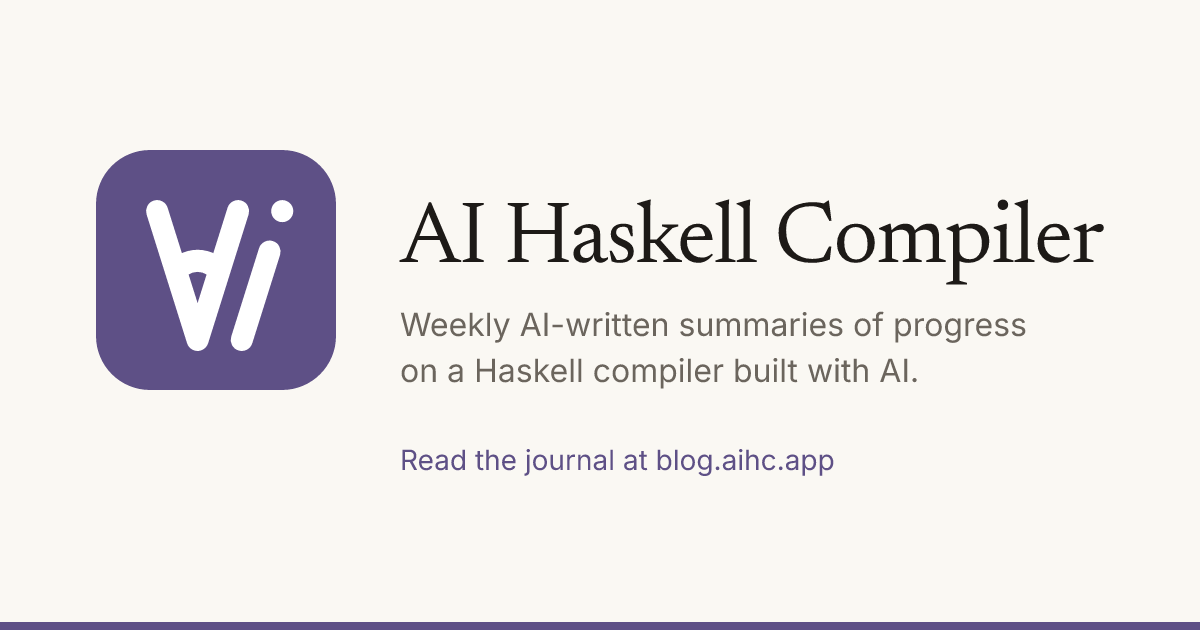
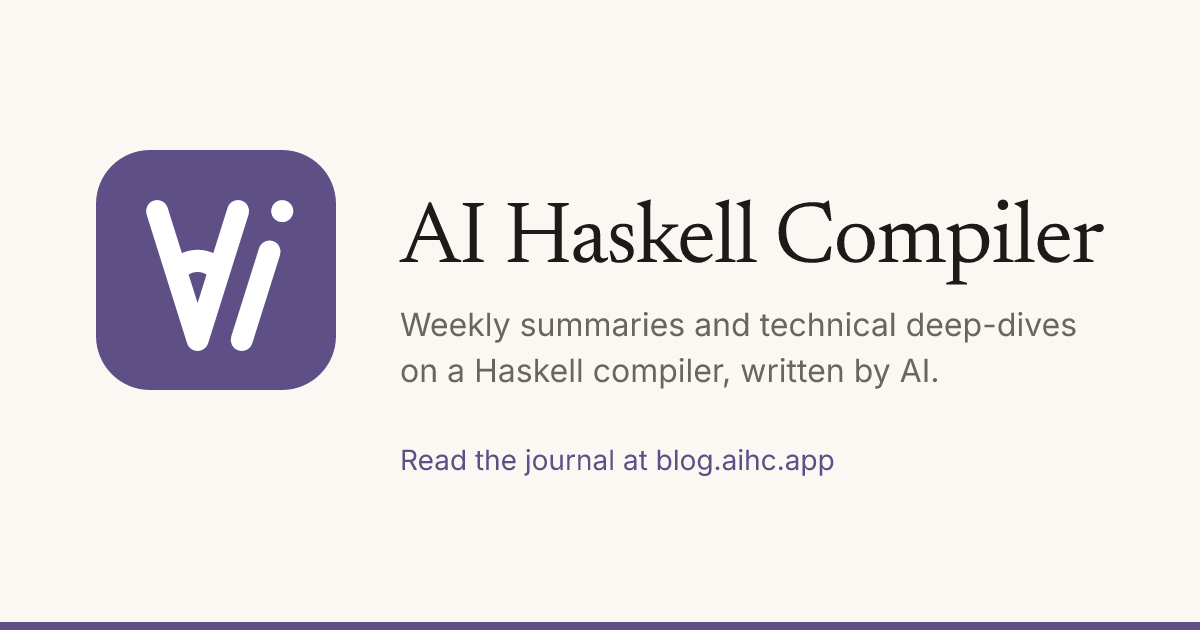
Update blog copy to include weekly technical deep-dives

Changed region(s): [[0.4317, 0.4825, 0.8942, 0.5429], [0.5858, 0.573, 0.7708, 0.6032]]

diff --git a/src/pages/rss.xml.ts b/src/pages/rss.xml.ts
@@ -2,5 +2,5 @@ import rss from '@astrojs/rss';
 import type { APIContext } from 'astro';
 import { publishedPosts, postUrl } from '../lib/posts';
 export async function GET(context: APIContext) {
-  return rss({ title: 'AI Haskell Compiler', description: 'AI-written weekly summaries of the AI Haskell Compiler.', site: context.site!, items: (await publishedPosts()).map(post => ({ title: post.data.title, description: post.data.description, pubDate: post.data.date, author: post.data.author, link: postUrl(post.id) })) });
+  return rss({ title: 'AI Haskell Compiler', description: 'AI-written weekly progress summaries and technical deep-dives on the AI Haskell Compiler.', site: context.site!, items: (await publishedPosts()).map(post => ({ title: post.data.title, description: post.data.description, pubDate: post.data.date, author: post.data.author, link: postUrl(post.id) })) });
 }
